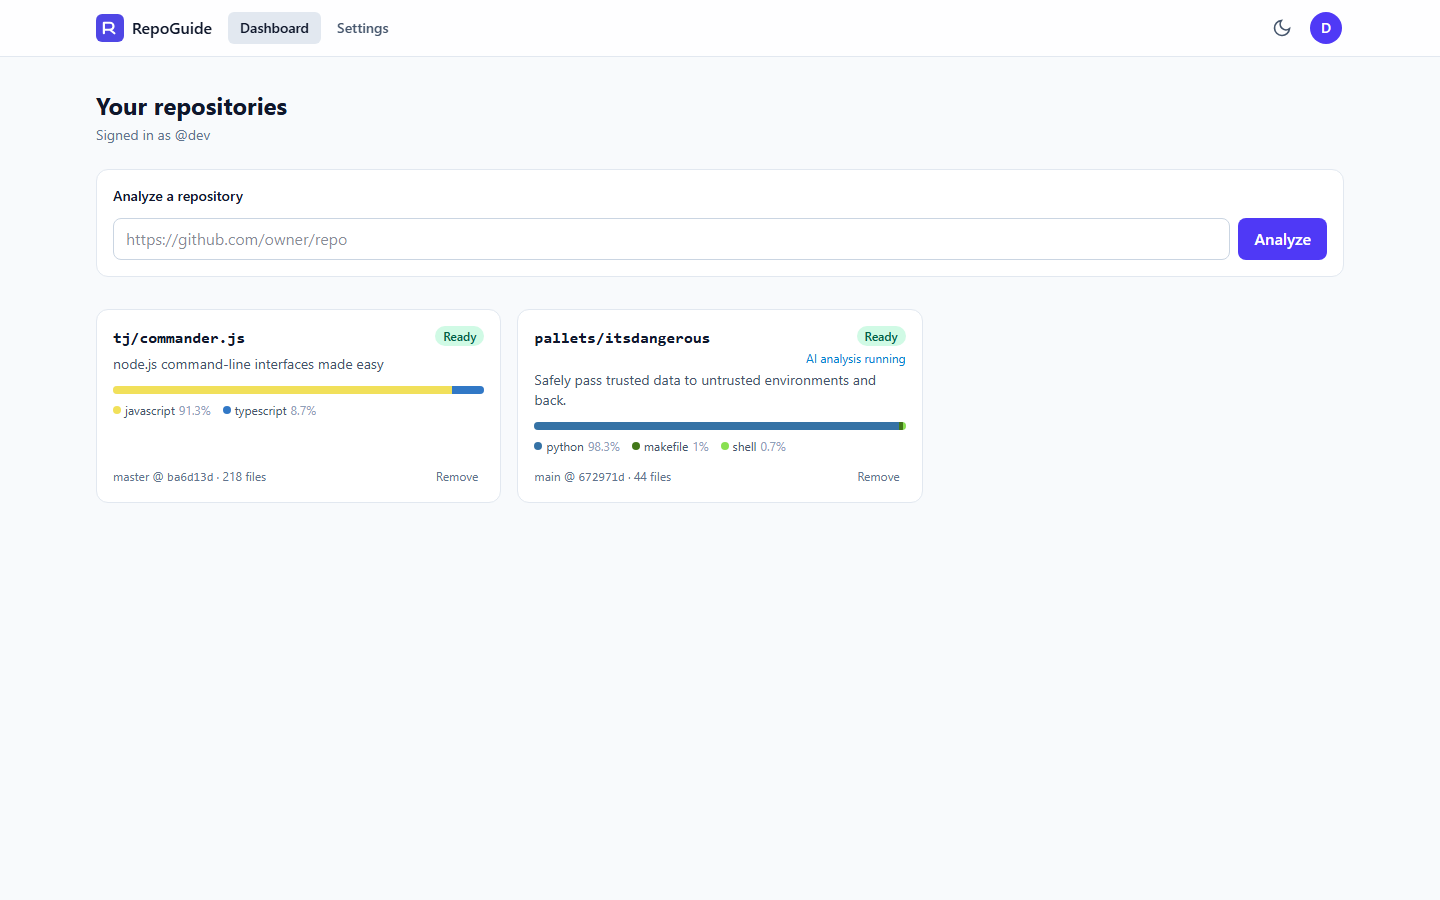
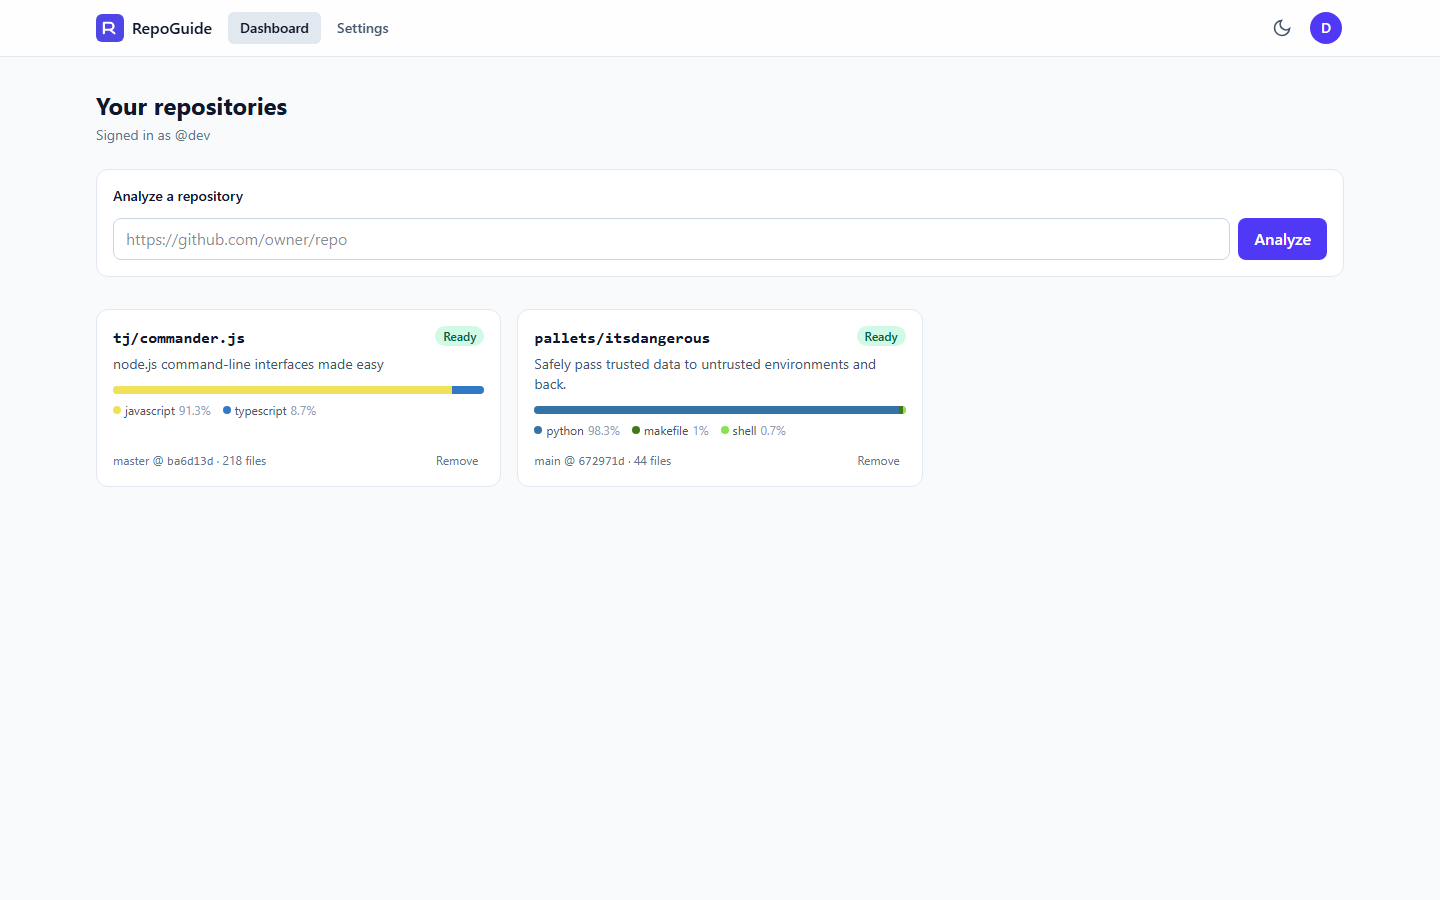
Qwen3-8B analysis re-run: focus tour ranges, verify glossary locations, prune empty modules
- Tour stops on big symbols are narrowed to at most 80 lines (class header and
  constructor, else the lines before the first member, else the first lines)
- Glossary terms whose cited file never mentions them lose that location
- Architecture drops modules that own no files and external modules with no edges
- Glossary prompt excludes package-script names
- Chat answers keep ordered-list numbering across blank lines
- Screenshot spec shows the newest conversation with citations
- README screenshots regenerated from the Qwen3-8B output; handover and plan updated

Changed region(s): [[0.375, 0.3733, 0.625, 0.56], [0.0938, 0.4978, 0.1875, 0.56], [0.3125, 0.4978, 0.3438, 0.56]]

diff --git a/frontend/e2e/screenshots.spec.ts b/frontend/e2e/screenshots.spec.ts
@@ -152,6 +152,13 @@ test("chat", async ({ page }) => {
   await page.goto(`/repos/${snapshot.repo_id}`);
   await page.getByRole("button", { name: "Ask a question" }).click();
   const chat = page.getByRole("complementary", { name: "Chat" });
+  // The newest conversation may be an honest "not found"; show the newest one with citations.
+  const base = `/api/repos/${snapshot.repo_id}/threads`;
+  const threads = (snapshot.responses[base] as { results: { id: string }[] }).results;
+  const cited = threads.find((t) =>
+    JSON.stringify(snapshot.responses[`${base}/${t.id}`]).includes("lib/option.js"),
+  );
+  if (cited) await chat.getByLabel("Conversation", { exact: true }).selectOption(cited.id);
   const citation = chat.getByRole("button", { name: /lib\/option\.js/ }).first();
   await citation.click();
   await expect(page.locator("[data-highlighted]").first()).toBeVisible();

diff --git a/frontend/src/components/chat/AnswerText.tsx b/frontend/src/components/chat/AnswerText.tsx
@@ -90,8 +90,10 @@ function Prose({
           );
         }
         if (lines.every((line) => /^\s*\d+[.)]\s+/.test(line))) {
+          // Items separated by blank lines arrive as separate blocks: keep their numbering.
+          const start = Number(/\d+/.exec(lines[0] ?? "")?.[0] ?? 1);
           return (
-            <ol key={key} className="ml-5 list-decimal">
+            <ol key={key} start={start} className="ml-5 list-decimal">
               {lines.map((line, i) => (
                 <li key={i}>
                   {inline(line.replace(/^\s*\d+[.)]\s+/, ""), known, onOpen, `${key}-${i}`)}

diff --git a/frontend/src/components/chat/chat.test.tsx b/frontend/src/components/chat/chat.test.tsx
@@ -202,4 +202,12 @@ describe("AnswerText", () => {
     expect(screen.getByText("const x = '[app/main.py:8-11]';").tagName).toBe("CODE");
     expect(screen.getByText("<b>raw</b>")).toBeInTheDocument(); // never parsed as HTML
   });
+
+  it("keeps the numbering of list items separated by blank lines", () => {
+    renderWithProviders(
+      <AnswerText text={"1. first\n\n2. second\n\n3. third"} citations={[]} onOpen={vi.fn()} />,
+    );
+    const starts = screen.getAllByRole("list").map((list) => list.getAttribute("start"));
+    expect(starts).toEqual(["1", "2", "3"]);
+  });
 });

diff --git a/backend/apps/agents/citations.py b/backend/apps/agents/citations.py
@@ -145,6 +145,31 @@ class FileIndex:
         )
         return (int(match["start_line"]), int(match["end_line"])) if match else None
 
+    def focus_range(self, path: str, start: int, end: int, max_lines: int) -> tuple[int, int]:
+        """Narrow a long range to something a reader can take in: a class becomes its header and
+        constructor (or the lines before its first member), anything else its first lines."""
+        if end - start + 1 <= max_lines:
+            return start, end
+        symbols = self.symbols.get(path, [])
+        owner = next(
+            (s for s in symbols if (int(s["start_line"]), int(s["end_line"])) == (start, end)), None
+        )
+        if owner is not None:
+            members = sorted(
+                (s for s in symbols if s.get("parent") == owner["name"]
+                 and start < int(s["start_line"]) <= end),
+                key=lambda s: int(s["start_line"]),
+            )  # fmt: skip
+            ctor = next(
+                (s for s in members if s["name"] in ("constructor", "__init__", owner["name"])),
+                None,
+            )
+            if ctor is not None and int(ctor["end_line"]) - start + 1 <= max_lines:
+                return start, int(ctor["end_line"])
+            if members and int(members[0]["start_line"]) - start > 1:
+                return start, min(int(members[0]["start_line"]) - 1, start + max_lines - 1)
+        return start, start + max_lines - 1
+
     def find_symbol(self, name: str) -> tuple[str, int, int] | None:
         wanted = term_key(name)
         hits = [
@@ -252,16 +277,22 @@ def repair_glossary(data: dict[str, Any], index: FileIndex) -> RefReport:
         if key in seen:
             continue
         seen.add(key)
+        look_up = not term.get("path")
         if term.get("path"):
             if not _fix_file_ref(term, index, report):
                 term.update(path=None, start_line=None, end_line=None)
+            elif index.mentions(term["path"], 1, index.lines[term["path"]], term["term"]) is False:
+                # The cited file never mentions the term (real run: npm script names cited to
+                # `.prettierignore`): look it up instead of pointing somewhere unrelated.
+                term.update(path=None, start_line=None, end_line=None)
+                report.repaired += 1
+                look_up = True
             else:
                 _fix_definition_lines(term, index, report)
-        else:
-            found_anywhere = index.find_symbol(term["term"])
-            if found_anywhere:
-                term["path"], term["start_line"], term["end_line"] = found_anywhere
-                report.repaired += 1
+        found_anywhere = index.find_symbol(term["term"]) if look_up else None
+        if found_anywhere:
+            term["path"], term["start_line"], term["end_line"] = found_anywhere
+            report.repaired += 1
         terms.append(term)
     data["terms"] = terms
     return report
@@ -275,8 +306,9 @@ _KIND_PREFIX = re.compile(
 )
 
 
-def repair_tour(data: dict[str, Any], index: FileIndex) -> RefReport:
-    """Steps pointing at unknown files are dropped; symbols pin down the line range."""
+def repair_tour(data: dict[str, Any], index: FileIndex, max_lines: int = 80) -> RefReport:
+    """Steps pointing at unknown files are dropped; symbols pin down the line range, which is
+    then narrowed to ``max_lines`` (a stop on a 2,700-line class highlighted the whole file)."""
     report = RefReport()
     seen: set[tuple[str, int | None, int | None]] = set()
     kept = []
@@ -286,6 +318,12 @@ def repair_tour(data: dict[str, Any], index: FileIndex) -> RefReport:
         step["title"] = _KIND_PREFIX.sub("", step["title"]) or step["title"]
         if step.get("symbol"):
             _fix_definition_lines(step, index, report)
+        if step.get("start_line") and step.get("end_line"):
+            span = (step["start_line"], step["end_line"])
+            focused = index.focus_range(step["path"], *span, max_lines=max_lines)
+            if focused != span:
+                step["start_line"], step["end_line"] = focused
+                report.repaired += 1
         key = (step["path"], step.get("start_line"), step.get("end_line"))
         if key not in seen:
             seen.add(key)
@@ -346,6 +384,7 @@ def repair_architecture(data: dict[str, Any], index: FileIndex, max_edges: int =
     report = RefReport()
     modules: list[dict[str, Any]] = []
     alias: dict[str, str] = {}
+    names: list[tuple[str, str]] = []  # (model's id or name, new id)
     for module in data.get("modules", []):
         paths: list[str] = []
         for raw in module.get("paths", []):
@@ -366,13 +405,18 @@ def repair_architecture(data: dict[str, Any], index: FileIndex, max_edges: int =
         new_id, n = base, 2
         while any(m["id"] == new_id for m in modules):
             new_id, n = f"{base}_{n}", n + 1
-        for key in (module.get("id"), module.get("name")):
-            if key:
-                alias.setdefault(key.strip().lower(), new_id)
-                alias.setdefault(_slug(key), new_id)
+        names.extend((key, new_id) for key in (module.get("id"), module.get("name")) if key)
         modules.append({**module, "id": new_id, "paths": paths})
+    # A module whose files all belong to more specific modules (real run: "Core" = `lib/` next
+    # to one module per file in lib/) owns nothing; its edges would be pure invention.
+    owners = {module_of(path, modules) for path in index.lines}
+    modules = [m for m in modules if m["id"] in owners or m.get("kind") == "external"]
+    kept_ids = {m["id"] for m in modules}
+    for key, new_id in names:
+        if new_id in kept_ids:
+            alias.setdefault(key.strip().lower(), new_id)
+            alias.setdefault(_slug(key), new_id)
     _infer_kinds(modules, index)
-    data["modules"] = modules
 
     def resolve(ref: str) -> str | None:
         return alias.get(ref.strip().lower()) or alias.get(_slug(ref))
@@ -406,4 +450,6 @@ def repair_architecture(data: dict[str, Any], index: FileIndex, max_edges: int =
                  "imports": count}
             )  # fmt: skip
     data["edges"] = edges[:max_edges]
+    linked = {e["source"] for e in data["edges"]} | {e["target"] for e in data["edges"]}
+    data["modules"] = [m for m in modules if m.get("kind") != "external" or m["id"] in linked]
     return report

diff --git a/backend/tests/test_architecture_tour.py b/backend/tests/test_architecture_tour.py
@@ -246,6 +246,53 @@ def test_repair_tour(index: FileIndex) -> None:
     assert report.dropped_paths == ["src/ghost.py"]
 
 
+def test_tour_ranges_on_big_symbols_are_narrowed() -> None:
+    symbols = {
+        "cmd.js": [
+            {"name": "Command", "kind": "class", "start_line": 14, "end_line": 2709},
+            {"name": "constructor", "start_line": 21, "end_line": 90, "parent": "Command"},
+            {"name": "parse", "start_line": 1081, "end_line": 1087, "parent": "Command"},
+            {"name": "Help", "kind": "class", "start_line": 2800, "end_line": 3500},
+            {"name": "format", "start_line": 2830, "end_line": 2900, "parent": "Help"},
+            {"name": "run", "kind": "function", "start_line": 3600, "end_line": 3900},
+        ]
+    }
+    index = FileIndex([{"path": "cmd.js", "lines": 4000}], symbols)
+    data = tour(
+        step("core_logic", "cmd.js", symbol="Command"),
+        step("flow_trace", "cmd.js", symbol="parse"),
+        step("core_logic", "cmd.js", symbol="Help"),
+        step("core_logic", "cmd.js", symbol="run"),
+    )
+    repair_tour(data, index)
+    assert [(s["start_line"], s["end_line"]) for s in data["steps"]] == [
+        (14, 90),  # class header + constructor
+        (1081, 1087),  # short ranges untouched
+        (2800, 2829),  # no constructor: the lines before the first member
+        (3600, 3679),  # anything else: the first lines
+    ]
+
+
+def test_umbrella_modules_and_unlinked_externals_are_dropped(index: FileIndex) -> None:
+    data = {
+        "modules": [
+            module("core", ["src/"]),  # every file below is claimed by a more specific module
+            module("api", ["src/api/"]),
+            module("orders", ["src/core/"]),
+            module("db", ["src/db/"], kind="data"),
+            module("main", ["main.py"], kind="entry"),
+            module("cloud", [], kind="external"),  # only linked through the dropped umbrella
+        ],
+        "edges": [
+            {"source": "core", "target": "api", "label": "uses"},
+            {"source": "core", "target": "cloud", "label": "calls"},
+        ],
+    }
+    repair_architecture(data, index)
+    assert [m["id"] for m in data["modules"]] == ["api", "orders", "db", "main"]
+    assert all(e["derived"] for e in data["edges"])
+
+
 def test_default_module_kinds_are_inferred_from_names_and_entry_points(index: FileIndex) -> None:
     data = {
         "modules": [
@@ -253,7 +300,7 @@ def test_default_module_kinds_are_inferred_from_names_and_entry_points(index: Fi
             module("api", ["src/api/"], name="HTTP API"),
             module("helpers", ["src/core/"], name="Shared helpers"),
             module("db", ["src/db/"], kind="other", name="Database models"),
-            module("store", ["src/db/models.py"], kind="service", name="Model store"),
+            module("store", ["src/api/auth.py"], kind="service", name="Model store"),
         ],
         "edges": [],
     }

diff --git a/backend/tests/test_agents.py b/backend/tests/test_agents.py
@@ -450,7 +450,12 @@ def test_symbol_lookup_prefers_exact_case() -> None:
 
 
 def test_glossary_prefers_symbol_ranges_and_drops_unverifiable_lines() -> None:
-    models = "\n".join(f"line {n}" for n in range(1, 121)).replace("line 50", "TAX_RATE = 0.2")
+    models = (
+        "\n".join(f"line {n}" for n in range(1, 121))
+        .replace("line 10\n", "class User:\n")
+        .replace("line 50", "TAX_RATE = 0.2")
+        .replace("line 70", "# used at checkout")
+    )
     index = FileIndex(FILES, SYMBOLS, content={"src/app/models.py": models}.get)
     data = {
         "terms": [
@@ -463,6 +468,9 @@ def test_glossary_prefers_symbol_ranges_and_drops_unverifiable_lines() -> None:
             # Invented line that does not mention the term: range dropped, path kept.
             {"term": "Checkout", "kind": "concept", "definition": "d",
              "path": "src/app/models.py", "start_line": 90, "end_line": 90},
+            # The file never mentions the term: location removed, term kept.
+            {"term": "test-all", "kind": "config", "definition": "d",
+             "path": "src/app/models.py", "start_line": None, "end_line": None},
         ]
     }  # fmt: skip
     report = repair_glossary(data, index)
@@ -471,5 +479,6 @@ def test_glossary_prefers_symbol_ranges_and_drops_unverifiable_lines() -> None:
         ("User", "src/app/models.py", 10, 30),
         ("TAX_RATE", "src/app/models.py", 50, 50),
         ("Checkout", "src/app/models.py", None, None),
+        ("test-all", None, None, None),
     ]
-    assert report.repaired == 2
+    assert report.repaired == 3

diff --git a/backend/apps/agents/prompts.py b/backend/apps/agents/prompts.py
@@ -67,7 +67,8 @@ STRUCTURE = {
         "start_line/end_line only when a specific part of a large file matters."
     ),
     "glossary": (
-        "Write the Glossary: 8-25 project-specific terms (not generic programming terms). Each "
+        "Write the Glossary: 8-25 project-specific terms (not generic programming terms, and not "
+        "the names of package scripts such as 'test' or 'lint'). Each "
         "has a 'kind', a 1-2 sentence 'definition', and 'path' (+ lines if known) where it is "
         "defined; use null when it is not defined in one place."
     ),

diff --git a/HANDOVER.md b/HANDOVER.md
@@ -8,12 +8,16 @@ Living document. Update after every meaningful step. A fresh session should be a
 - **Local stack model:** points at the **Kaggle vLLM server, `Qwen/Qwen3-8B`** (2× T4) through a cloudflared quick tunnel. The tunnel URL **changes every Kaggle session**: the last one was `https://healing-cookie-mart-skip.trycloudflare.com/v1` and dies when the notebook stops.
 - **`.env`** (gitignored) now exists and holds only `LLM_API_KEY` (= the Kaggle secret `VLLM_API_KEY`), created by the developer. Never print or commit it. All other settings use defaults.
 - **Kaggle notebook:** version `2026-10-03.3` (printed by its install cell). Fixed today: Kaggle's preinstalled torchaudio (CUDA 12.8) broke vLLM 0.30.0's PyTorch (CUDA 13.0) → the install cell now removes every torchaudio copy, checks PyTorch runs on the GPUs (falls back to vLLM 0.18.1 if not), and verifies vLLM imports before starting the server.
-- **In progress when this was written:** real-model checks on Qwen3-8B. Chat is done (results under Completed). **Not yet done:** a full analysis re-run on the 8B model (planned: commander.js, all 5 sections) to compare with the 4B output.
+- **Qwen3-8B checks done:** chat and a full 5-section analysis of commander.js (comparison with 4B under Completed). The analysis run surfaced three output problems, fixed in the repair layer and re-applied to the stored output; README screenshots regenerated from the 8B output.
+- **Kaggle session ended** at ~08:08 UTC on 2026-10-03 (`/api/llm/health` → unreachable). Start a new one before any model work.
+- **One open check:** the Glossary prompt now excludes package-script names (`test`, `check:lint`, …). Not yet verified on the real model: needs one Glossary re-run (see Resume here, step 3).
 
 ## ▶ Resume here (fresh session)
 1. Start Docker Desktop, then `docker compose up -d` (the stack reads `LLM_API_KEY` from `.env`).
 2. **Model server:** on Kaggle, open the RepoGuide notebook (GPU T4 x2, Internet on, secret `VLLM_API_KEY` attached) → Run All → copy the `Public URL: …trycloudflare.com/v1` line → `docker compose exec backend python manage.py set_llm_url <url>`. It should print `Model 'Qwen/Qwen3-8B' is online`. A fresh tunnel can refuse connections for ~1 minute; just re-run `set_llm_url`. Without Kaggle, use local Ollama instead: start the Ollama app, then `set_llm_url http://host.docker.internal:11434 --model qwen3:4b-instruct`.
-3. **Next task:** re-run the full analysis of commander.js on Qwen3-8B and compare with the 4B output (notes below), e.g. in `manage.py shell`: delete `Analysis` for the repo, then `apps.repos.services._enqueue_analysis_only(repo, user)`; watch `docker compose logs -f worker`. Then optionally regenerate the README screenshots from the 8B output (`export_snapshot` + `npm run screenshots`, see `frontend/e2e/screenshots.spec.ts`).
+3. **Next task (needs the model):** re-run only the Glossary of commander.js on Qwen3-8B to verify the new prompt drops package-script names. In `docker compose exec backend python manage.py shell`: load `Analysis` for repo `6abe76b0edff12d59ede7efc`, set `sections["glossary"]["status"] = "pending"`, save, then `apps.repos.services._enqueue_analysis_only(repo, User.objects.get(username="e2e-check"))` (it only re-runs sections that are not done). Check the terms; if good, re-export the snapshot and `npm run screenshots` (no screenshot shows the glossary today, so this is optional).
+   - Re-running a whole analysis: delete the repo's `Analysis`, then `_enqueue_analysis_only(repo, user)`; watch `docker compose logs -f worker`.
+   - Repair changes can be re-applied to stored output without the model: `get_section(key).repair(data, load_file_index(ToolContext(repo)))`, then save `sections` (repairs are idempotent).
 4. To look at the app signed in: `docker compose exec backend python manage.py login_link e2e-check` → open the printed link within 60 s (user `e2e-check` has commander.js and itsdangerous on its dashboard).
 5. Running backend tests locally against the Docker Mongo needs credentials:
    `MONGODB_URI="mongodb://repoguide:repoguide@localhost:27017/?directConnection=true&authSource=admin" .venv/Scripts/python -m pytest`.
@@ -134,8 +138,24 @@ Settings are read in `backend/config/settings/base.py` via the `env*` helpers.
 | `set_llm_url` without `--model` clears the model override; adopts the server's only model if the configured one is not served; explains 401/403 (API key) | Switching Ollama → vLLM used to keep `qwen3:4b-instruct` and fail |
 | Architecture repair ignores previously derived edges and re-derives them | Idempotent: re-applying repair to stored output used to turn dashed import edges into plain ones |
 | Embedding model warmed in the ASGI process at startup (`config/asgi.py`, `EMBEDDING_WARMUP=1` default) | First chat search no longer pays ~10 s |
+| Tour ranges narrowed to ≤80 lines (`FileIndex.focus_range`): a class becomes header + constructor, else the lines before its first member, else its first 80 lines | Real 8B run: symbol pinning made a stop on `Command` highlight lines 14–2709 |
+| Glossary terms whose cited file never mentions them lose the location (then symbol lookup) | Real 8B run: npm script names cited to `.prettierignore` |
+| Architecture drops modules that own no files (all claimed by more specific modules) and external modules with no edges | Real 8B run: a `lib/` umbrella next to one module per lib file, with "uses" edges backed by no imports |
+| Answer lists keep their numbering across blank lines (`<ol start>`) | 8B writes loose lists; every item rendered as "1." |
 
 ## Completed
+- **Qwen3-8B analysis vs 4B (2026-10-03, commander.js, all 5 sections done):**
+  | | qwen3:4b-instruct (Ollama) | Qwen3-8B (Kaggle vLLM) |
+  |---|---|---|
+  | LLM calls / tokens | 17 / 58.7k (51.1k prompt) | 30 / 122.6k (115.8k prompt) |
+  | Model time | 620 s | 680 s (wall 11 min 21 s, no interruptions) |
+  | Overview | 4 tech-stack items, 0 run commands, 1 entry point | 8 items, 4 real commands (`npm test`, `npm run check`, …), 2 entry points |
+  | Architecture | 6 modules / 9 edges | one module per lib file: 9 modules / 18 edges after repair, almost all import-backed (busier map) |
+  | Tour | 9 stops, 3 without a range | 10 stops, all with ranges, flow trace on `parse()` |
+  | Start Here | 15 files | 15 files (adds `eslint.config.js`, `CHANGELOG.md`) |
+  | Glossary | 17 terms | 14 terms: 9 real API terms with exact locations + 5 npm script names (prompt fixed, re-run pending) |
+  - 8B makes one tool call per turn (4B batched 5–6), hence more calls and ~2× prompt tokens for similar model time.
+  - Fixes from this run: tour range focusing, glossary location check, architecture umbrella/unlinked-external pruning, glossary prompt, ordered-list numbering in chat answers, screenshot spec picks a cited conversation. README screenshots now show the 8B output.
 - **Kaggle / Qwen3-8B (2026-10-03):** vLLM 0.30.0 serving Qwen3-8B on 2× T4 via cloudflared; `set_llm_url` switched the stack from Ollama (model override cleared, ~600 ms health round trip). Real chat on commander.js:
   - "How does Commander handle an option that requires a value?": 61 s, 3 LLM calls, 1 search, **4 valid citations** (`lib/option.js:15-17`, `:19-21`, `:165-172`, `lib/command.js:2070-2073`). Correctly explains `<value>` → `required`, plus `mandatory`, value collection and the missing-mandatory error: more complete than the 4B answer (which blurred required vs mandatory).
   - "Where is the code that sends emails?": 10 s, searched first, honest "couldn't find", no citations.
@@ -181,6 +201,7 @@ Later candidates: chat answers in dedicated workers if load grows; a chat rate l
 - Playwright clears `frontend/test-results/` at the start of each run; keep snapshot files elsewhere.
 
 ## Progress log
+- 2026-10-03: **Qwen3-8B analysis re-run** on commander.js (5/5 sections); fixed tour ranges, glossary locations, architecture umbrellas, chat list numbering; README screenshots regenerated from 8B. Glossary prompt re-run pending (Kaggle session ended).
 - 2026-10-01: Plan approved; repo initialised with remote `origin` (github.com/Akhil-0707/Repo_Onboarding_Agent).
 - 2026-10-01: Backend scaffold, LLM client + health, tests (33 local passing, 2 mongo skipped).
 - 2026-10-01: Frontend shell + tests; Docker Compose; Kaggle server; CI. Pushed; CI green (35 backend incl. Mongo, 23 frontend).

diff --git a/plan.md b/plan.md
@@ -96,3 +96,11 @@ Status legend: `- [ ]` pending, `- [x]` done. A phase heading gets `✅ Complete
 - [x] `seed_demo` management command
 - [x] README (architecture diagram, setup, env vars, design tradeoffs, limitations, screenshot placeholders)
 - [x] Final CI green, push
+
+## After Phase 9 — real-model follow-ups (Qwen3-8B on Kaggle)
+- [x] Kaggle vLLM server verified (torchaudio/CUDA fix, notebook v2026-10-03.3); stack switched to Qwen3-8B
+- [x] Real chat checks on Qwen3-8B (cited answer, honest "not found")
+- [x] Full 5-section analysis of commander.js on Qwen3-8B, compared with qwen3:4b-instruct
+- [x] Repair fixes from that run (tour range focusing, glossary location check, architecture umbrella pruning) + chat list numbering
+- [x] README screenshots regenerated from the 8B output
+- [ ] Verify the glossary prompt change (no package-script names) with one Glossary re-run on Qwen3-8B

diff --git a/README.md b/README.md
@@ -19,8 +19,9 @@ checkpoint and resume on their own, and the code stays browsable in the meantime
 
 ## Screenshots
 
-Real output for [`tj/commander.js`](https://github.com/tj/commander.js), produced by a small
-local model (`qwen3:4b-instruct`); every file and line reference was checked against the code.
+Real output for [`tj/commander.js`](https://github.com/tj/commander.js), produced by
+`Qwen/Qwen3-8B` on the Kaggle vLLM server; every file and line reference was checked against the
+code.
 Regenerate them with `npm run screenshots` (see [`frontend/e2e/screenshots.spec.ts`](frontend/e2e/screenshots.spec.ts)).
 
 **Workspace: overview, file tree and the AI-written summary**
